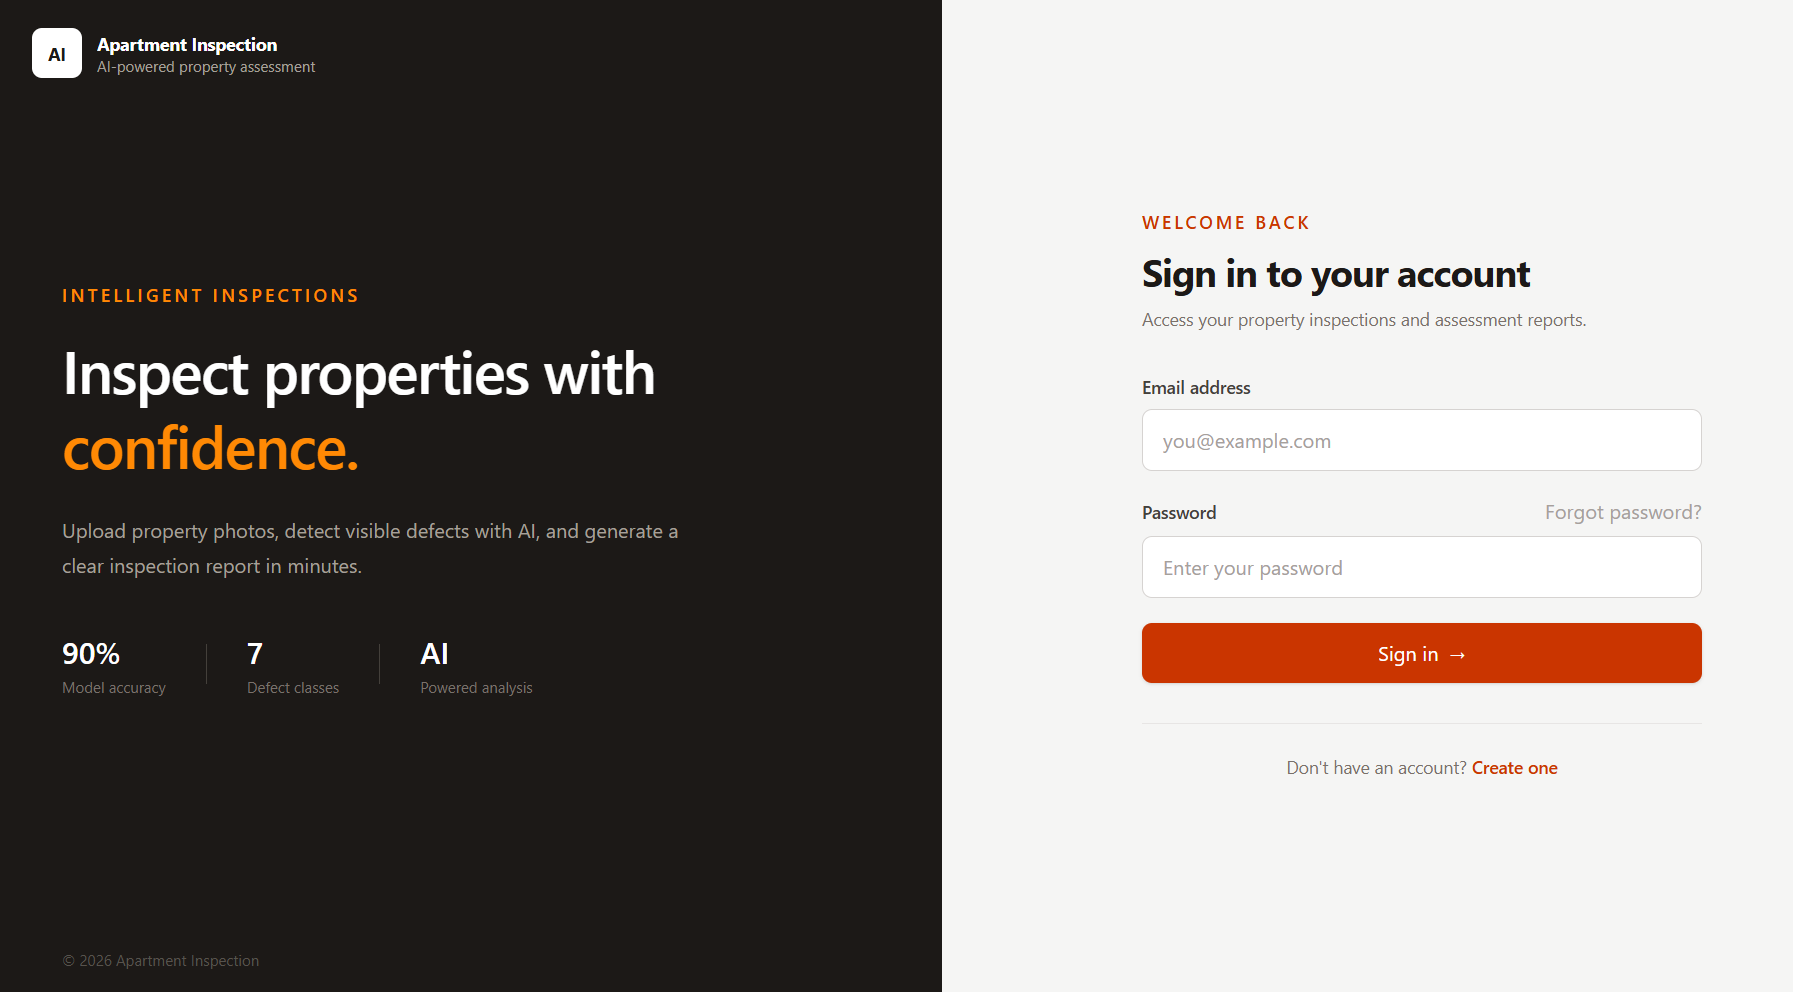
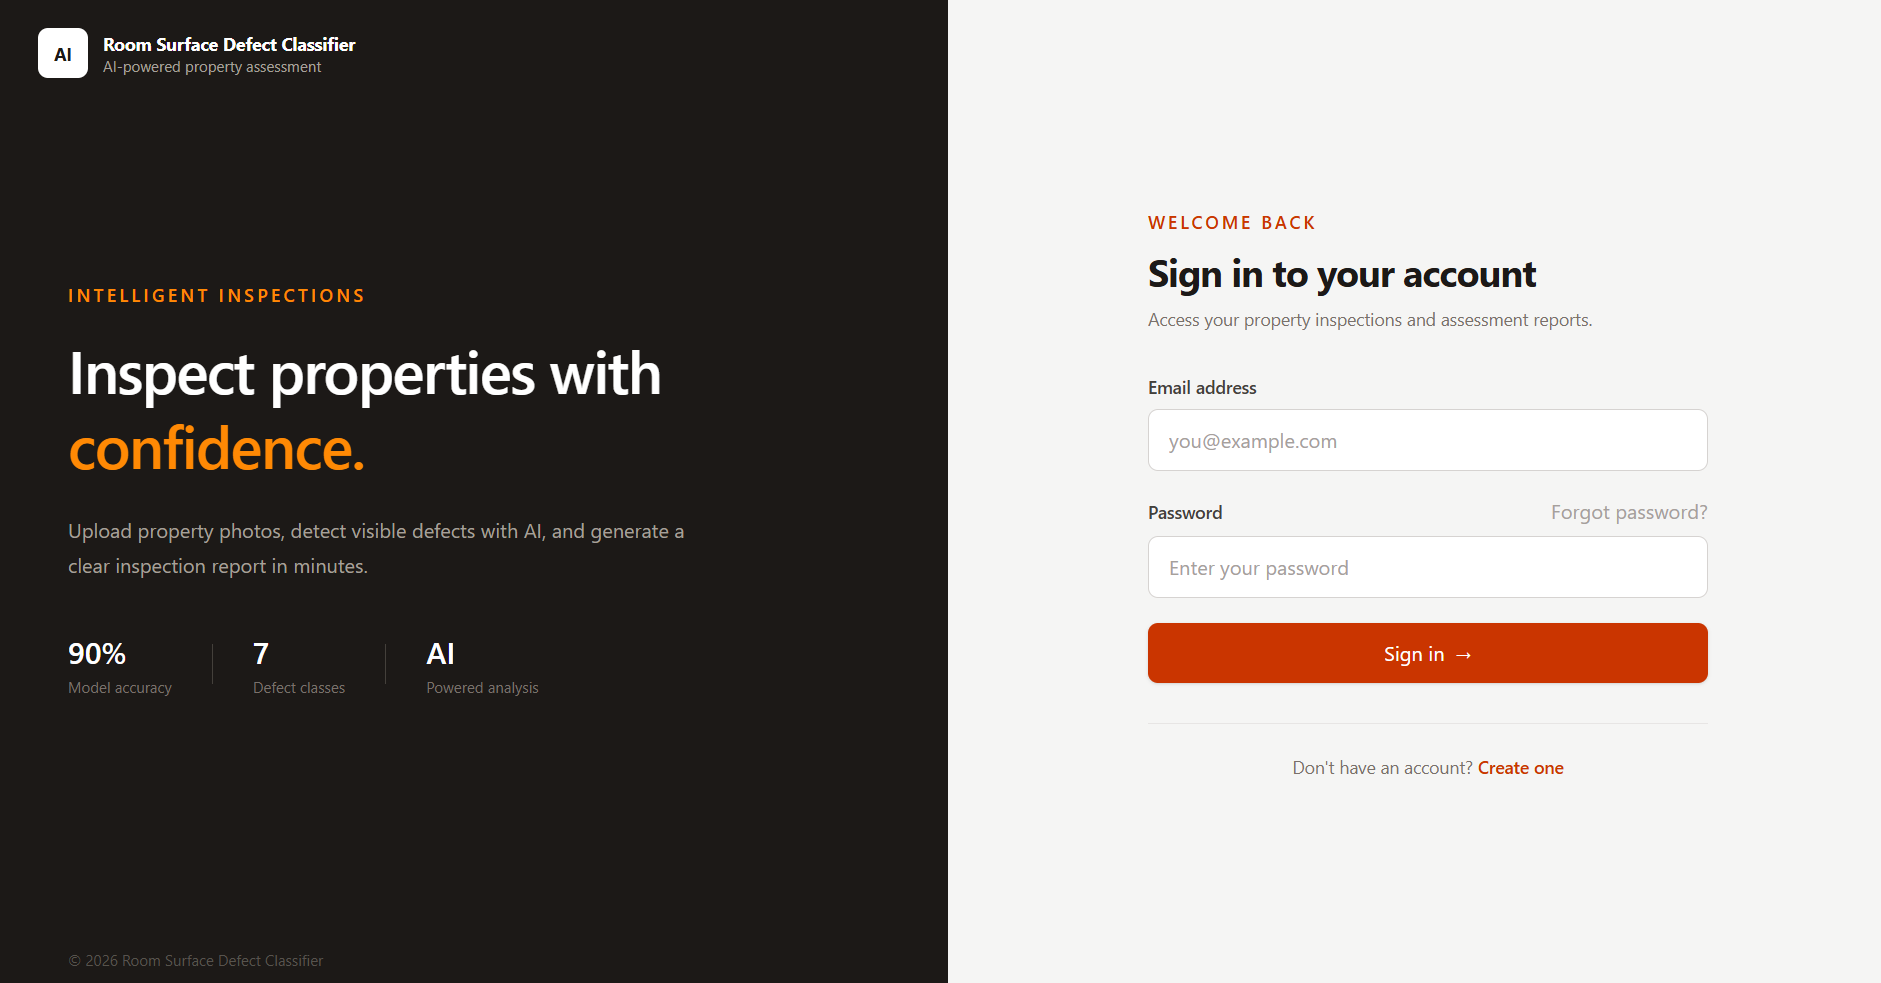
Port problem soved

diff --git a/frontend/src/pages/Register.tsx b/frontend/src/pages/Register.tsx
@@ -162,7 +162,7 @@ function Register() {
               <div>
 
                 <p className="text-sm font-bold text-white">
-                  Apartment Inspection
+                  Room Surface Defect Classifier
                 </p>
 
                 <p className="text-xs text-stone-400">
@@ -259,7 +259,7 @@ function Register() {
           <div className="px-16 pb-8">
 
             <p className="text-xs text-stone-600">
-              © 2026 Apartment Inspection
+              © 2026 Room Surface Defect Classifier
             </p>
 
           </div>
@@ -287,7 +287,7 @@ function Register() {
               <div>
 
                 <p className="text-sm font-bold text-stone-900">
-                  Apartment Inspection
+                  Room Surface Defect Classifier
                 </p>
 
                 <p className="text-xs text-stone-500">

diff --git a/frontend/src/pages/Login.tsx b/frontend/src/pages/Login.tsx
@@ -181,7 +181,7 @@ function Login() {
               <div>
 
                 <p className="text-sm font-bold text-white">
-                  Apartment Inspection
+                  Room Surface Defect Classifier
                 </p>
 
                 <p className="text-xs text-stone-400">
@@ -263,7 +263,7 @@ function Login() {
           <div className="px-16 pb-8">
 
             <p className="text-xs text-stone-600">
-              © 2026 Apartment Inspection
+              © 2026 Room Surface Defect Classifier
             </p>
 
           </div>
@@ -288,7 +288,7 @@ function Login() {
               <div>
 
                 <p className="text-sm font-bold text-stone-900">
-                  Apartment Inspection
+                  Room Surface Defect Classifier
                 </p>
 
                 <p className="text-xs text-stone-500">

diff --git a/frontend/src/pages/InspectionReport.tsx b/frontend/src/pages/InspectionReport.tsx
@@ -958,7 +958,7 @@ function InspectionReport() {
         <footer className="mt-10 border-t border-stone-200 pt-6">
 
           <p className="text-center text-[11px] leading-5 text-stone-400">
-            AI Apartment Inspection · Inspection #
+            Room Surface Defect Classifier · Inspection #
             {inspection.id}
           </p>
 

diff --git a/frontend/index.html b/frontend/index.html
@@ -4,7 +4,7 @@
     <meta charset="UTF-8" />
     <link rel="icon" type="image/svg+xml" href="/AI.svg" />
     <meta name="viewport" content="width=device-width, initial-scale=1.0" />
-    <title>Apartment-Inspection</title>
+    <title>Room Surface Defect Classifier</title>
   </head>
   <body>
     <div id="root"></div>

diff --git a/frontend/src/components/Navbar.tsx b/frontend/src/components/Navbar.tsx
@@ -63,7 +63,7 @@ function Navbar({
               text-stone-900
               sm:text-base
             ">
-              Apartment Inspection
+              Room Surface Defect Classifier
             </h1>
 
 

diff --git a/ml/src/inference.py b/ml/src/inference.py
@@ -5,7 +5,7 @@ from pathlib import Path
 from PIL import Image
 from torchvision import transforms
 
-from ml.src.model import load_model
+from ml.src.model import CLASS_NAMES, load_model
 
 
 # --------------------------------------------------
@@ -20,21 +20,6 @@ MODEL_PATH = (
     / "models"
     / "room_surface_defect_resnet18.pth"
 )
-
-
-# --------------------------------------------------
-# Classes
-# --------------------------------------------------
-
-CLASS_NAMES = [
-    "algae",
-    "major_crack",
-    "minor_crack",
-    "peeling",
-    "plain",
-    "spalling",
-    "stain",
-]
 
 
 # --------------------------------------------------
